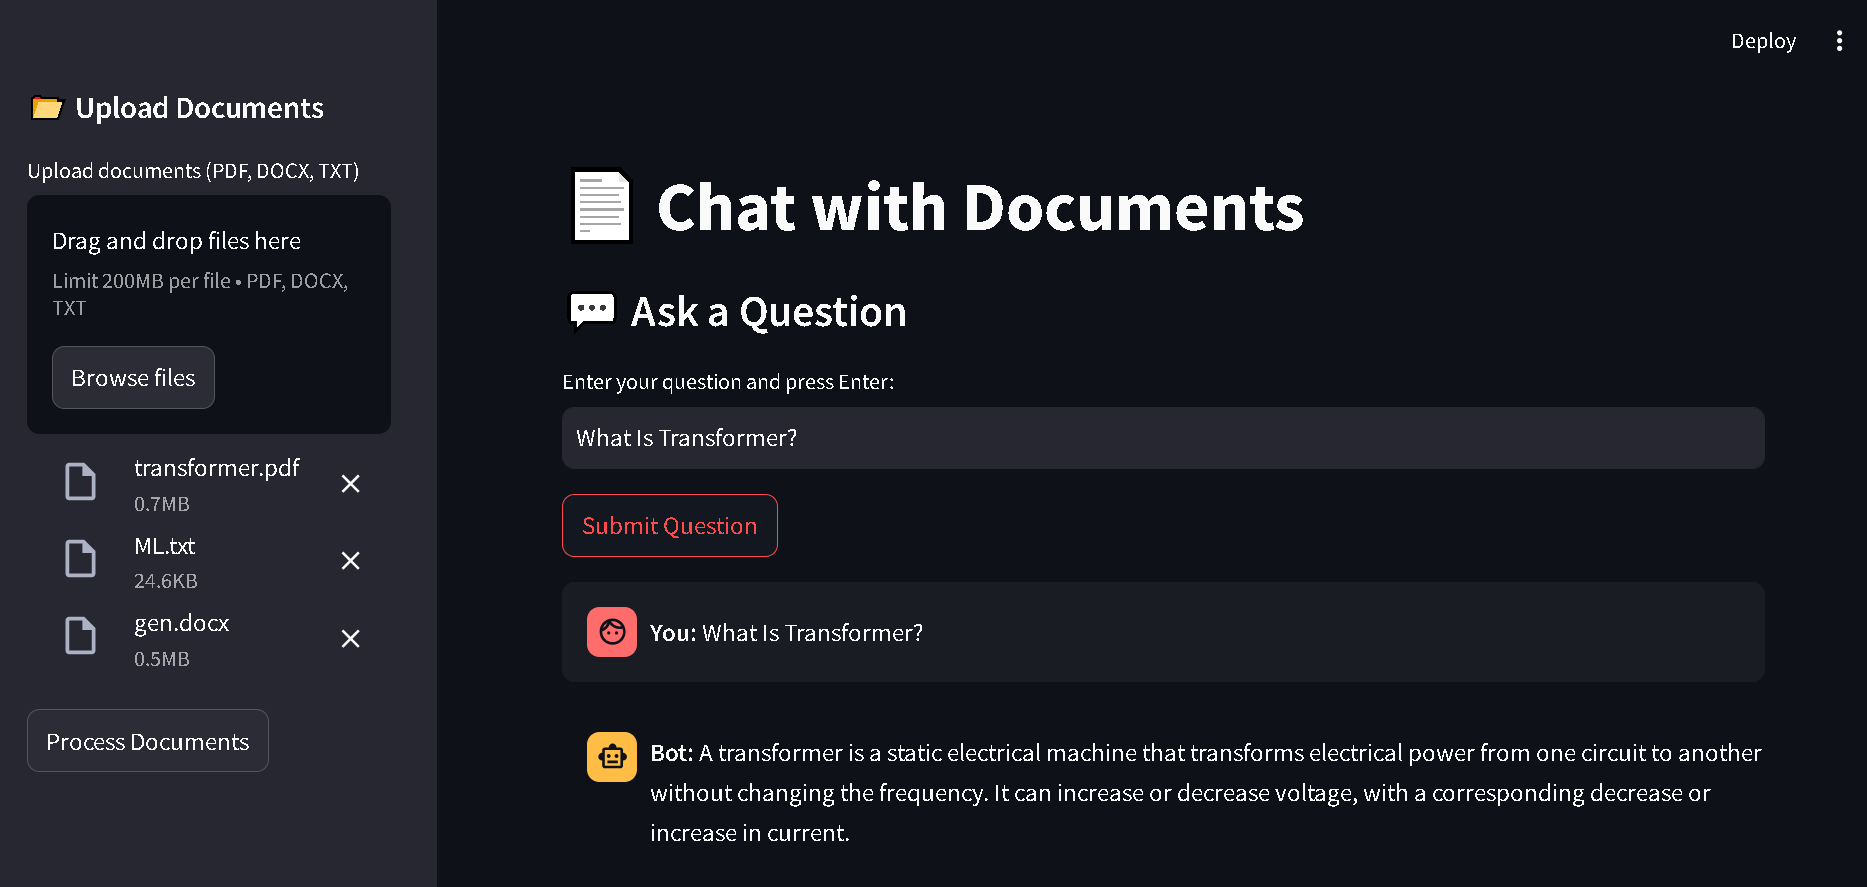
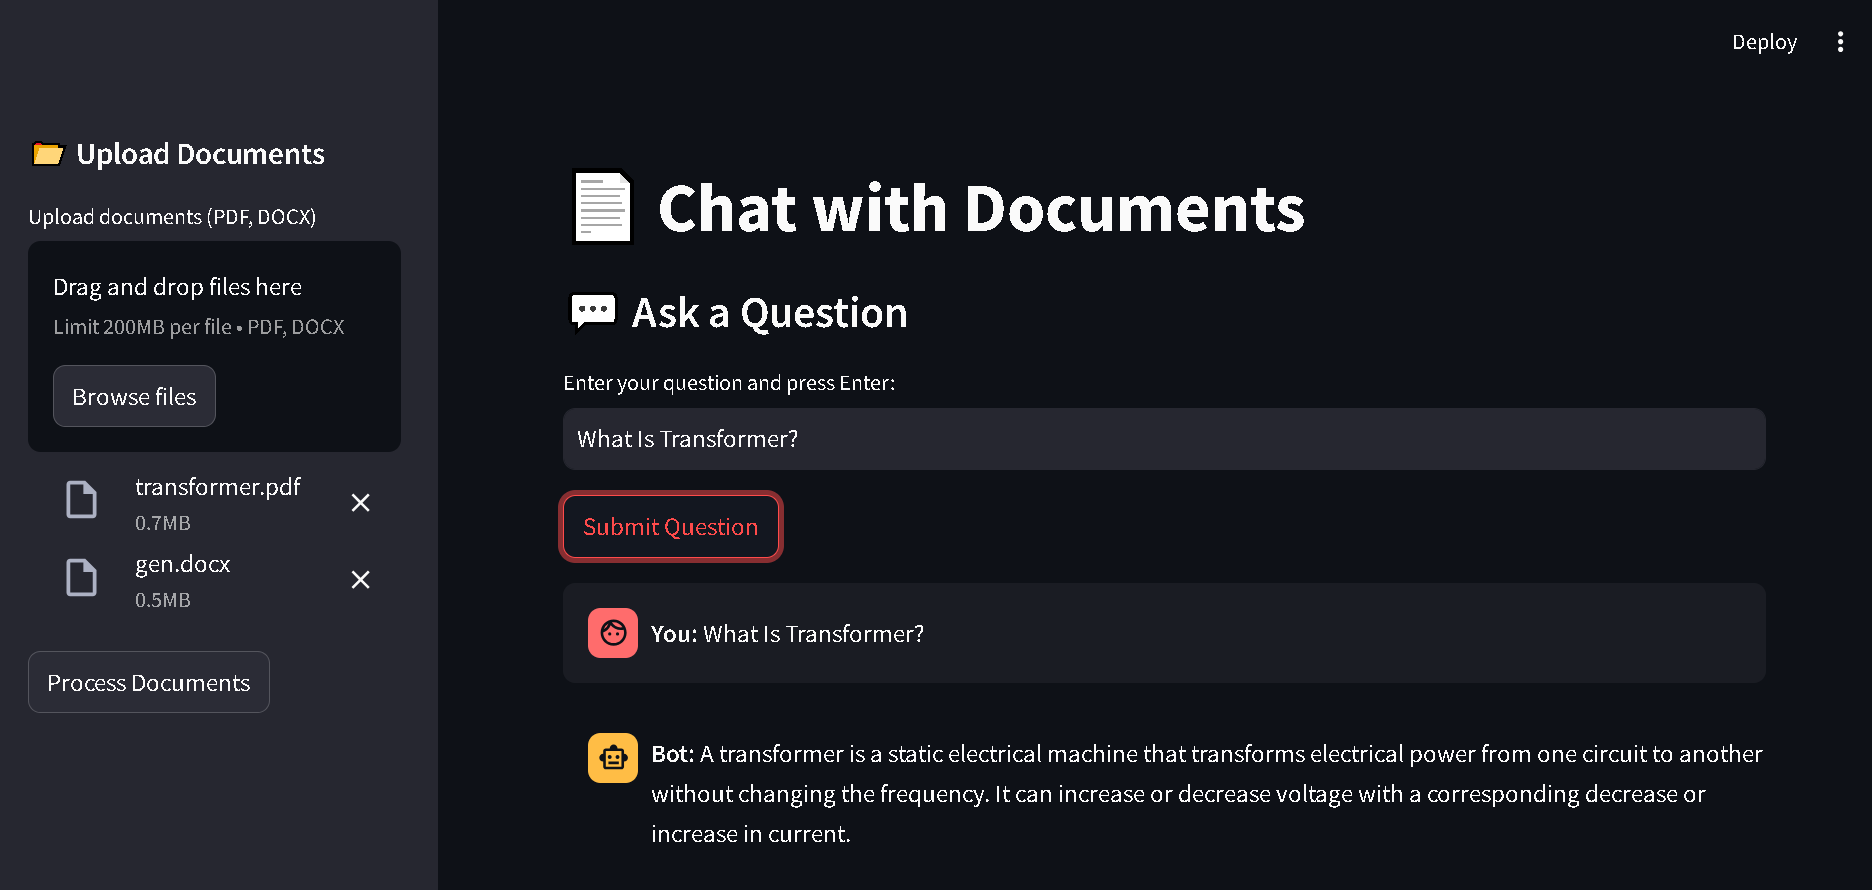
Readme Updated

diff --git a/app.py b/app.py
@@ -39,9 +39,7 @@ def extract_docx_text(docx_file):
     doc = Document(docx_file)
     return "\n".join([para.text for para in doc.paragraphs])
 
-# Function to extract text from a TXT file
-def extract_txt_text(txt_file):
-    return txt_file.read().decode("utf-8")
+
 
 # Function to split text into chunks
 def get_text_chunks(text):
@@ -85,7 +83,7 @@ def main():
     # Sidebar for file upload
     with st.sidebar:
         st.header("📂 Upload Documents")
-        uploaded_files = st.file_uploader("Upload documents (PDF, DOCX, TXT)", type=["pdf", "docx", "txt"], accept_multiple_files=True)
+        uploaded_files = st.file_uploader("Upload documents (PDF, DOCX)", type=["pdf", "docx"], accept_multiple_files=True)
         
         if st.button("Process Documents"):
             if uploaded_files:
@@ -101,8 +99,7 @@ def main():
                             raw_text = extract_pdf_text(file_path)
                         elif uploaded_file.name.endswith(".docx"):
                             raw_text = extract_docx_text(file_path)
-                        elif uploaded_file.name.endswith(".txt"):
-                            raw_text = extract_txt_text(uploaded_file)
+                        
                         else:
                             continue
 

diff --git a/README.md b/README.md
@@ -3,10 +3,10 @@
 ![](output.png)
 
 ## Overview
-This Streamlit application allows users to interact with multiple document types (PDF, DOCX, TXT) using AI-powered conversational capabilities. The app extracts text from uploaded documents, processes them into vector embeddings, and enables users to ask questions, receiving context-aware responses.
+This Streamlit application allows users to interact with multiple document types (PDF, DOCX) using AI-powered conversational capabilities. The app extracts text from uploaded documents, processes them into vector embeddings, and enables users to ask questions, receiving context-aware responses.
 
 ## Features
-- **Upload and Process Multiple Documents**: Supports PDF, DOCX, and TXT files.
+- **Upload and Process Multiple Documents**: Supports PDF, DOCX files.
 - **Persistent Storage**: Uploaded documents are stored locally for processing.
 - **AI-Powered Q&A**: Uses Google Gemini API and FAISS vector store for intelligent document search and response generation.
 - **Interactive Chat Interface**: Users can ask questions and receive AI-generated responses based on document content.
@@ -38,7 +38,7 @@ Ensure you have Python installed along with the required dependencies.
    ```sh
    streamlit run app.py
    ```
-2. Upload your documents (PDF, DOCX, TXT) using the sidebar.
+2. Upload your documents (PDF, DOCX) using the sidebar.
 3. Click **Process Documents** to extract and store text in the vector database.
 4. Ask questions in the chat interface and receive AI-generated responses.
 5. Click **Submit Question** to process your input.
@@ -49,11 +49,6 @@ Ensure you have Python installed along with the required dependencies.
 - **FAISS**: Efficient similarity search for document embeddings.
 - **PyPDF2**: PDF text extraction.
 - **python-docx**: DOCX text extraction.
-
-## Future Enhancements
-- Add support for more document formats (e.g., Excel, HTML).
-- Improve response generation with advanced fine-tuned models.
-- Implement cloud storage for uploaded files.
 
 ## License
 This project is licensed under the MIT License.
